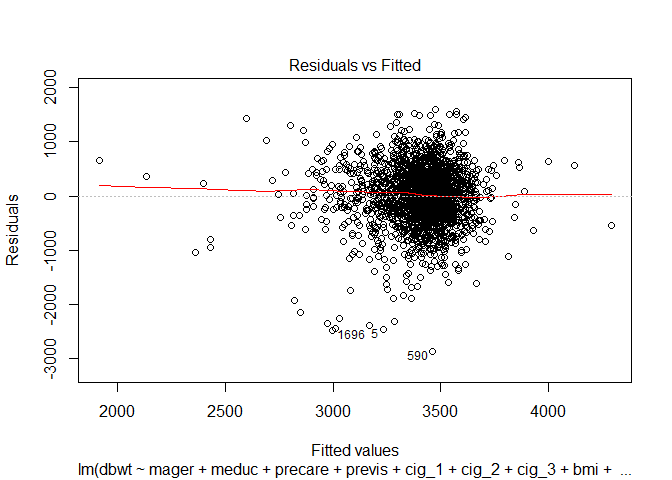
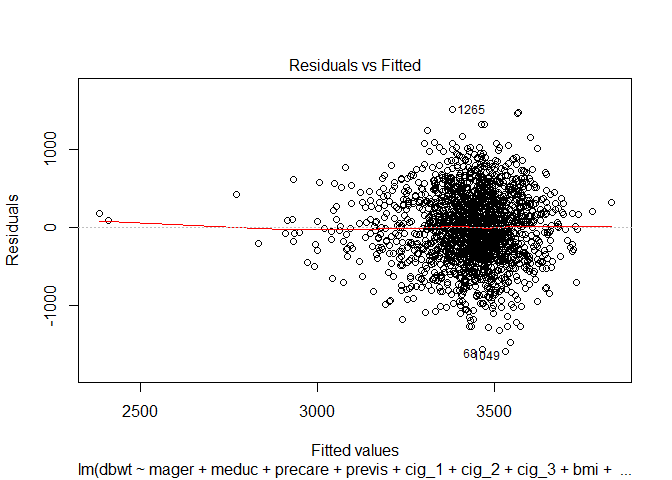
change aic model

diff --git a/Baby-Data-Analysis.md b/Baby-Data-Analysis.md
@@ -324,7 +324,7 @@ shapiro.test(sample(resid(birth_model), 1500))
     ##  Shapiro-Wilk normality test
     ## 
     ## data:  sample(resid(birth_model), 1500)
-    ## W = 0.97145, p-value < 2.2e-16
+    ## W = 0.96629, p-value < 2.2e-16
 
 We will output various graphs to check for any violations in our model. To check if the errors follow a normal distribution we use the shapiro-wilk test and Q-Q plots. To check the if the assumption of constant variance of errors (also known as homoscedasticity) we use the Breuch Pagan test (we will refer to it as "bptest" in this report) and Residual plots. We will check for unnecessary outliers using cooks.distance. And Finally we will check for serious multicollinearity using variance inflation factor (we will refer to it as "vif" in this report).
 
@@ -402,7 +402,7 @@ shapiro.test(sample(resid(birth_model2), 1500))
     ##  Shapiro-Wilk normality test
     ## 
     ## data:  sample(resid(birth_model2), 1500)
-    ## W = 0.96974, p-value < 2.2e-16
+    ## W = 0.97406, p-value = 8.354e-16
 
 ``` r
 vif(birth_model2)
@@ -495,7 +495,7 @@ shapiro.test(sample(resid(birth_model_noinf), 1500))
     ##  Shapiro-Wilk normality test
     ## 
     ## data:  sample(resid(birth_model_noinf), 1500)
-    ## W = 0.99886, p-value = 0.4634
+    ## W = 0.9988, p-value = 0.4066
 
 ``` r
 vif(birth_model_noinf)
@@ -647,7 +647,7 @@ shapiro.test(sample(resid(birth_redmodel_noinf), 1500))
     ##  Shapiro-Wilk normality test
     ## 
     ## data:  sample(resid(birth_redmodel_noinf), 1500)
-    ## W = 0.99899, p-value = 0.585
+    ## W = 0.99868, p-value = 0.3172
 
 ``` r
 vif(birth_redmodel_noinf)
@@ -684,7 +684,7 @@ anova(birth_redmodel_noinf, birth_model_noinf)$"Pr(>F)"
 We can also try other models to see if it is better than "birth\_model\_noinf". We will use Akaike information criterion (AIC) as a means for model selection.
 
 ``` r
-birth_aicmodel = stepAIC(birth_model, direction = "both")
+birth_aicmodel = stepAIC(birth_model, subset = birth_model_cook <= 4 / length(birth_model_cook), direction = "both")
 ```
 
     ## Start:  AIC=25290.21
@@ -796,7 +796,7 @@ shapiro.test(sample(resid(birth_aicmodel), 1500))
     ##  Shapiro-Wilk normality test
     ## 
     ## data:  sample(resid(birth_aicmodel), 1500)
-    ## W = 0.97899, p-value = 5.321e-14
+    ## W = 0.96897, p-value < 2.2e-16
 
 ``` r
 vif(birth_aicmodel)
@@ -812,7 +812,7 @@ The aic model has no predictor variables with multicollinearity. However, the as
 We could also try to create the largest model and use backwards Akaike Information Criterion to possible find a good model.
 
 ``` r
-birth_hugemodel = lm(dbwt ~ . ^ 2 + I(mager ^ 2) + I(precare ^ 2) + I(previs ^ 2) + I(cig_0 ^ 2) +I(cig_1 ^ 2) + I(as.factor(meduc ^ 2)) + I(as.factor(dmeth_rec ^ 2)) + I(bmi ^ 2), data = birth_data)
+birth_hugemodel = lm(dbwt ~ . ^ 2 + I(mager ^ 2) + I(precare ^ 2) + I(previs ^ 2) + I(cig_0 ^ 2) +I(cig_1 ^ 2) + I(as.factor(meduc ^ 2)) + I(as.factor(dmeth_rec ^ 2)) + I(bmi ^ 2), data = birth_data, subset = birth_model_cook <= 4 / length(birth_model_cook))
 
 fit_aic = step(birth_hugemodel, direction = "backward", trace = 0)
 summary(fit_aic)
@@ -821,54 +821,49 @@ summary(fit_aic)
     ## 
     ## Call:
     ## lm(formula = dbwt ~ mager + meduc + precare + previs + cig_1 + 
-    ##     cig_2 + cig_3 + bmi + dmeth_rec + I(mager^2) + I(precare^2) + 
-    ##     I(previs^2) + I(bmi^2) + mager:dmeth_rec + meduc:bmi + meduc:dmeth_rec + 
-    ##     precare:cig_1 + precare:cig_3 + precare:bmi + precare:dmeth_rec + 
-    ##     previs:bmi + previs:dmeth_rec + cig_1:cig_3 + cig_1:bmi + 
-    ##     cig_1:dmeth_rec + cig_2:cig_3 + cig_3:bmi + cig_3:dmeth_rec, 
-    ##     data = birth_data)
+    ##     cig_2 + cig_3 + bmi + dmeth_rec + I(mager^2) + I(previs^2) + 
+    ##     I(cig_1^2) + I(bmi^2) + mager:previs + mager:bmi + mager:dmeth_rec + 
+    ##     meduc:bmi + meduc:dmeth_rec + precare:cig_1 + precare:cig_2 + 
+    ##     previs:cig_1 + previs:cig_2 + cig_2:cig_3 + bmi:dmeth_rec, 
+    ##     data = birth_data, subset = birth_model_cook <= 4/length(birth_model_cook))
     ## 
     ## Residuals:
     ##      Min       1Q   Median       3Q      Max 
-    ## -2873.21  -311.24    11.82   361.59  1602.80 
+    ## -1590.73  -297.73     0.32   321.08  1522.67 
     ## 
     ## Coefficients:
-    ##                    Estimate Std. Error t value Pr(>|t|)    
-    ## (Intercept)       2084.9451   429.2187   4.858 1.28e-06 ***
-    ## mager               48.8849    20.0823   2.434  0.01501 *  
-    ## meduc               46.2835    42.5994   1.086  0.27740    
-    ## precare           -125.7430    56.6843  -2.218  0.02665 *  
-    ## previs              26.9381    14.9953   1.796  0.07258 .  
-    ## cig_1              -70.5664    31.4250  -2.246  0.02484 *  
-    ## cig_2              -20.1208    12.0499  -1.670  0.09512 .  
-    ## cig_3               73.0784    52.2015   1.400  0.16169    
-    ## bmi                 40.5336    14.2473   2.845  0.00449 ** 
-    ## dmeth_rec         -270.7055   210.1540  -1.288  0.19785    
-    ## I(mager^2)          -0.5153     0.3488  -1.477  0.13973    
-    ## I(precare^2)         6.4923     4.2401   1.531  0.12589    
-    ## I(previs^2)         -2.3984     0.3711  -6.464 1.29e-10 ***
-    ## I(bmi^2)            -0.5265     0.1891  -2.784  0.00542 ** 
-    ## mager:dmeth_rec    -13.7666     6.0298  -2.283  0.02253 *  
-    ## meduc:bmi           -4.0171     1.3104  -3.066  0.00220 ** 
-    ## meduc:dmeth_rec     48.8230    21.0263   2.322  0.02033 *  
-    ## precare:cig_1        8.7297     3.1734   2.751  0.00600 ** 
-    ## precare:cig_3       -8.5456     4.6739  -1.828  0.06765 .  
-    ## precare:bmi          2.0151     1.3775   1.463  0.14365    
-    ## precare:dmeth_rec   38.3270    23.4000   1.638  0.10160    
-    ## previs:bmi           0.8118     0.4409   1.841  0.06572 .  
-    ## previs:dmeth_rec    22.9551     7.3613   3.118  0.00184 ** 
-    ## cig_1:cig_3         -1.8652     0.7059  -2.642  0.00830 ** 
-    ## cig_1:bmi            2.7296     0.8728   3.128  0.00179 ** 
-    ## cig_1:dmeth_rec    -23.4295    10.7143  -2.187  0.02888 *  
-    ## cig_2:cig_3          2.3935     0.9726   2.461  0.01394 *  
-    ## cig_3:bmi           -3.2932     1.3748  -2.395  0.01670 *  
-    ## cig_3:dmeth_rec     30.8144    17.1479   1.797  0.07249 .  
+    ##                  Estimate Std. Error t value Pr(>|t|)    
+    ## (Intercept)     2737.5825   384.1025   7.127 1.46e-12 ***
+    ## mager             23.8894    19.9026   1.200 0.230172    
+    ## meduc            -21.2804    40.0673  -0.531 0.595401    
+    ## precare           17.5346     8.7336   2.008 0.044820 *  
+    ## previs             4.4054    16.2257   0.272 0.786031    
+    ## cig_1            -44.0943    30.4981  -1.446 0.148401    
+    ## cig_2             37.4972    38.8707   0.965 0.334837    
+    ## cig_3            -36.5297    15.6804  -2.330 0.019932 *  
+    ## bmi               22.4972    13.7994   1.630 0.103208    
+    ## dmeth_rec       -286.8557   177.4190  -1.617 0.106086    
+    ## I(mager^2)        -0.5893     0.3155  -1.868 0.061934 .  
+    ## I(previs^2)       -0.5192     0.3522  -1.474 0.140629    
+    ## I(cig_1^2)        -0.7760     0.3768  -2.060 0.039579 *  
+    ## I(bmi^2)          -0.5595     0.2032  -2.754 0.005952 ** 
+    ## mager:previs       0.7850     0.4930   1.592 0.111489    
+    ## mager:bmi          0.6235     0.3749   1.663 0.096466 .  
+    ## mager:dmeth_rec   -9.7339     5.4763  -1.777 0.075654 .  
+    ## meduc:bmi         -2.0695     1.2975  -1.595 0.110877    
+    ## meduc:dmeth_rec   68.0885    18.3505   3.710 0.000213 ***
+    ## precare:cig_1      9.7140     4.5249   2.147 0.031938 *  
+    ## precare:cig_2     -7.9768     5.4542  -1.463 0.143770    
+    ## previs:cig_1       2.7683     1.7140   1.615 0.106471    
+    ## previs:cig_2      -3.2537     2.1886  -1.487 0.137279    
+    ## cig_2:cig_3        2.2877     0.8959   2.553 0.010745 *  
+    ## bmi:dmeth_rec      7.8139     4.1054   1.903 0.057153 .  
     ## ---
     ## Signif. codes:  0 '***' 0.001 '**' 0.01 '*' 0.05 '.' 0.1 ' ' 1
     ## 
-    ## Residual standard error: 544.1 on 1970 degrees of freedom
-    ## Multiple R-squared:  0.08997,    Adjusted R-squared:  0.07704 
-    ## F-statistic: 6.956 on 28 and 1970 DF,  p-value: < 2.2e-16
+    ## Residual standard error: 453.2 on 1854 degrees of freedom
+    ## Multiple R-squared:  0.0709, Adjusted R-squared:  0.05888 
+    ## F-statistic: 5.895 on 24 and 1854 DF,  p-value: < 2.2e-16
 
 Check for model assumptions again.
 
@@ -886,7 +881,7 @@ bptest(fit_aic)
     ##  studentized Breusch-Pagan test
     ## 
     ## data:  fit_aic
-    ## BP = 141.37, df = 28, p-value < 2.2e-16
+    ## BP = 33.721, df = 24, p-value = 0.08975
 
 ``` r
 shapiro.test(sample(resid(fit_aic), 1500))
@@ -896,26 +891,24 @@ shapiro.test(sample(resid(fit_aic), 1500))
     ##  Shapiro-Wilk normality test
     ## 
     ## data:  sample(resid(fit_aic), 1500)
-    ## W = 0.98012, p-value = 1.513e-13
+    ## W = 0.99843, p-value = 0.1829
 
 ``` r
 vif(fit_aic)
 ```
 
-    ##             mager             meduc           precare            previs 
-    ##         81.183155         28.887861         42.746931         26.540771 
-    ##             cig_1             cig_2             cig_3               bmi 
-    ##        140.450083          9.608714        127.939290         58.795600 
-    ##         dmeth_rec        I(mager^2)      I(precare^2)       I(previs^2) 
-    ##         53.469334         81.264550         16.971496         11.545536 
-    ##          I(bmi^2)   mager:dmeth_rec         meduc:bmi   meduc:dmeth_rec 
-    ##         40.751624         56.741674         26.205967         24.781130 
-    ##     precare:cig_1     precare:cig_3       precare:bmi precare:dmeth_rec 
-    ##         23.777697         16.625478         25.355372         17.601646 
-    ##        previs:bmi  previs:dmeth_rec       cig_1:cig_3         cig_1:bmi 
-    ##         29.918316         19.749029         13.842194         85.324829 
-    ##   cig_1:dmeth_rec       cig_2:cig_3         cig_3:bmi   cig_3:dmeth_rec 
-    ##         27.334896         14.567375         67.039182         24.408035
+    ##           mager           meduc         precare          previs 
+    ##      105.121280       34.740696        1.335081       36.820698 
+    ##           cig_1           cig_2           cig_3             bmi 
+    ##      122.411126      100.404972       10.782612       65.826524 
+    ##       dmeth_rec      I(mager^2)     I(previs^2)      I(cig_1^2) 
+    ##       49.808076       86.533753       11.019370       10.863888 
+    ##        I(bmi^2)    mager:previs       mager:bmi mager:dmeth_rec 
+    ##       52.630267       36.505984       76.117993       60.630300 
+    ##       meduc:bmi meduc:dmeth_rec   precare:cig_1   precare:cig_2 
+    ##       32.454832       25.081568       47.442318       35.982851 
+    ##    previs:cig_1    previs:cig_2     cig_2:cig_3   bmi:dmeth_rec 
+    ##       41.939871       34.817443        7.497697       32.489656
 
 As with the previous model, there is still violations in assumptions so this is not a good model in explaining birth weight of a baby.
 
@@ -969,7 +962,7 @@ plot(dbwt ~ dmeth_rec, data = birth_data)
 
 ![](Baby-Data-Analysis_files/figure-markdown_github/scatter%20plot%20of%20each%20variable-1.png)
 
-Looking at the scatter plots there does not seem to be any definite positive or negative relationship any between the predictor variables and response variables but there seems to be an upward trend.
+Looking at the scatter plots there does not seem to be any definite positive or negative relationship any between the predictor variables and response variables but there seems to be an upward trend.AA
 
 Conclusion
 ----------
